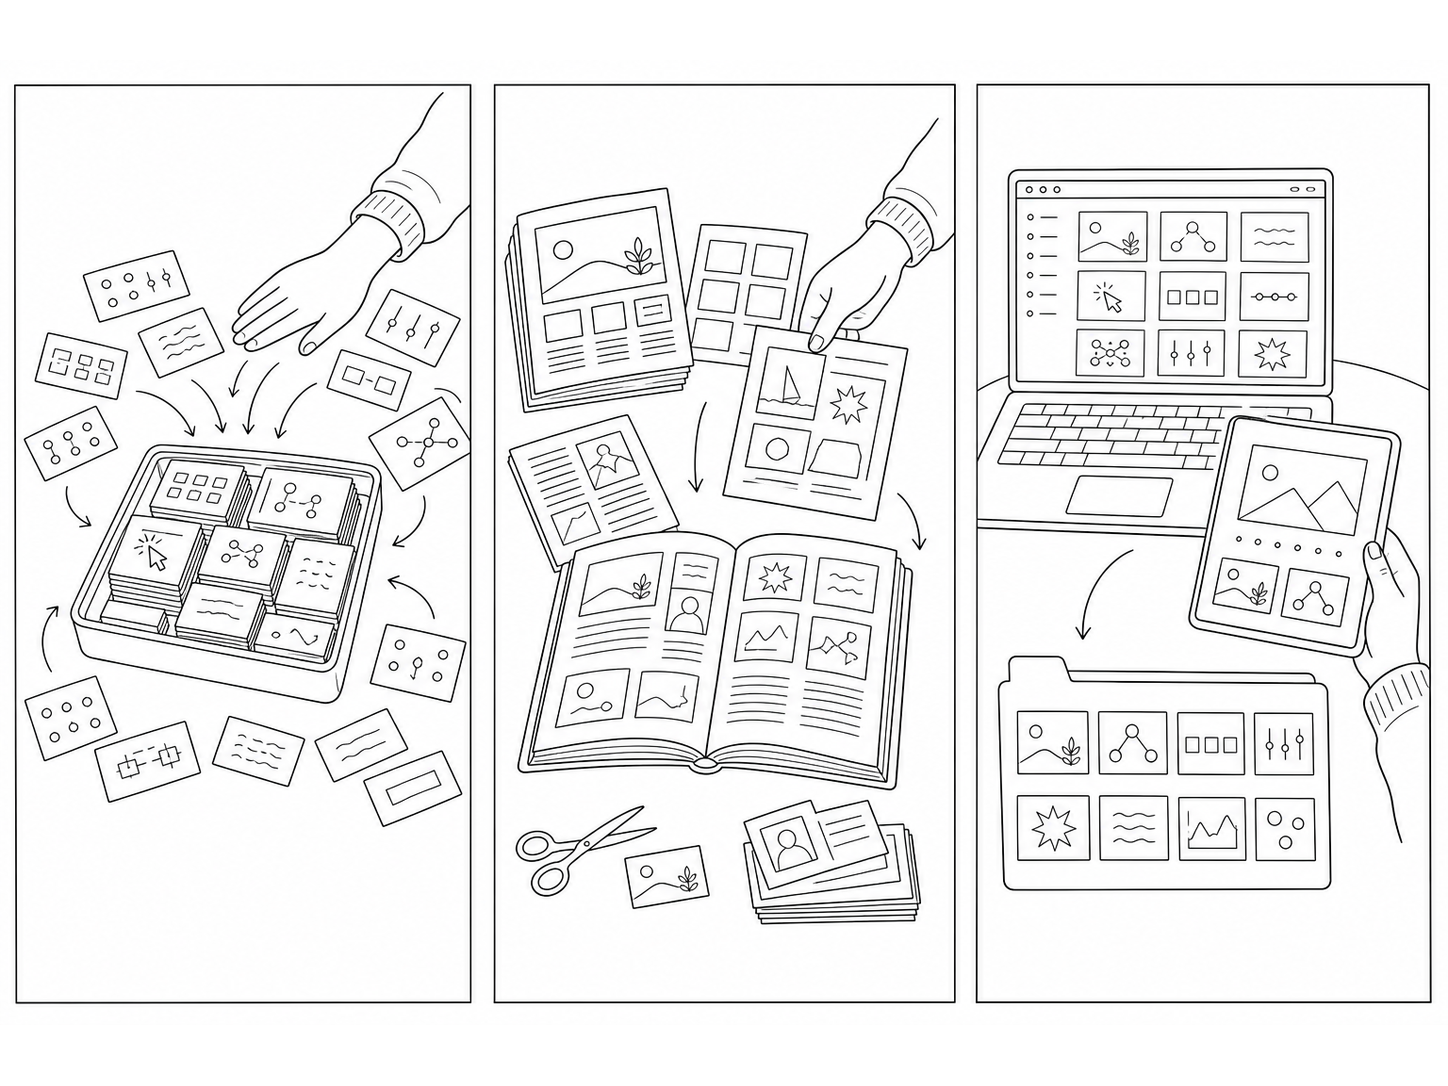
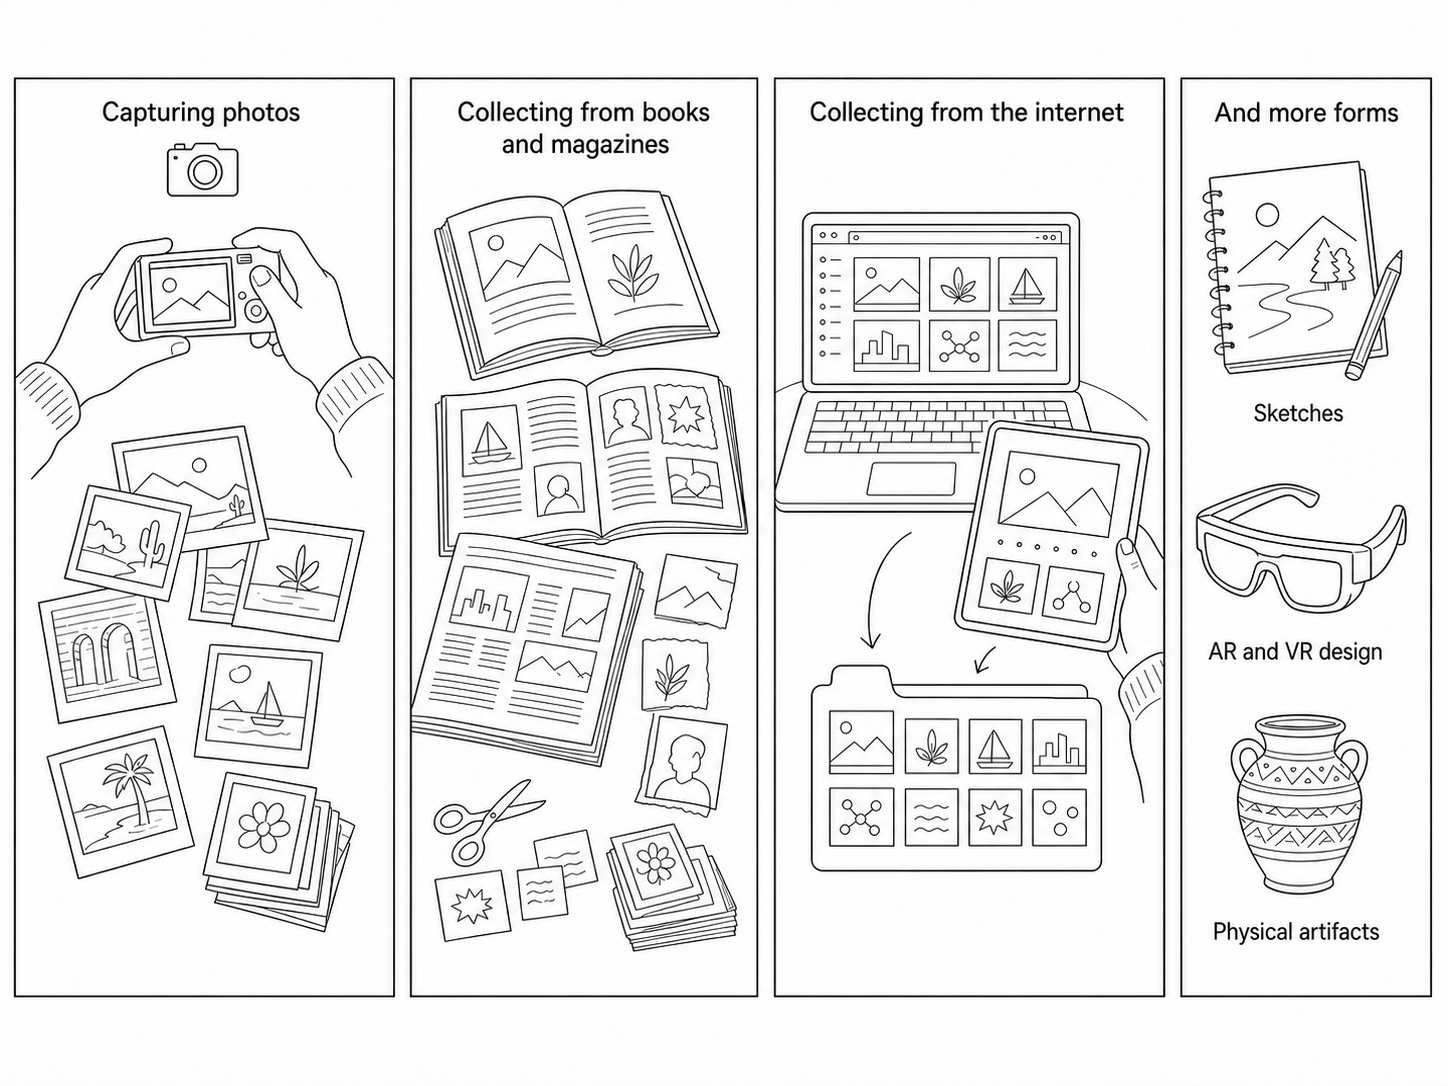
Expand design pattern corpus sources

Changed region(s): [[0.0, 0.0608, 0.9945, 0.942], [0.8391, 0.8508, 0.9634, 0.8812], [0.9634, 0.7597, 0.9945, 0.7901]]

diff --git a/method-005.html b/method-005.html
@@ -349,9 +349,9 @@
         <div class="step-num">2</div>
         <div>
           <h4>Collect a corpus of examples.</h4>
-          <p>Gather a set of existing examples of the medium you are studying, broad enough to cover its range.</p>
+          <p>Gather a diverse corpus of examples from multiple media and formats: captured or printed photographs, books and magazines, websites, and other visual or multimodal sources. Aim for breadth across the medium's range, and record each example's source and inclusion rationale.</p>
           <figure class="step-fig">
-            <div class="step-img"><img src="method-005/step2.png" alt="A three-panel corpus collection scene showing physical cards, printed magazine and book examples, and digital webpages in a folder" loading="lazy"></div>
+            <div class="step-img"><img src="method-005/step2.png" alt="Four source panels showing captured photos, images collected from books and magazines, material collected from the internet, and additional forms including sketches, AR and VR design, and physical artifacts" loading="lazy"></div>
           </figure>
         </div>
       </div>